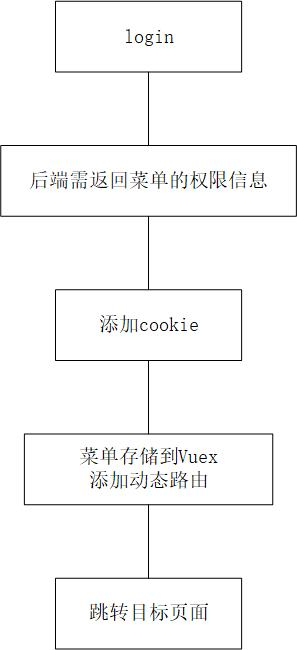
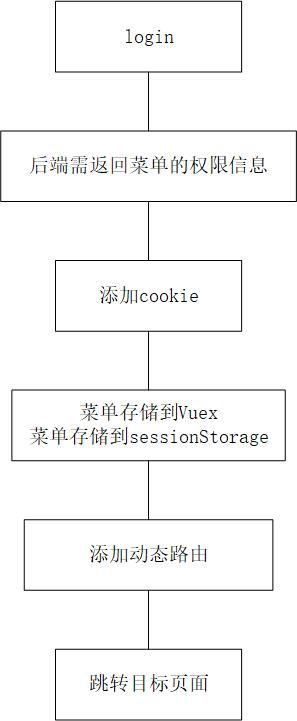
优化vuex与动态路由解决方案

diff --git a/src/router/index.js b/src/router/index.js
@@ -50,25 +50,14 @@ router.beforeEach((to, from, next)=> {
     // 非登录页，校验登录状态
     const username = Cookies.get('username')
     if (username) {
-      // 已登录，校验菜单
-      if (store.getters['menuModule/getMenuData'].length > 0) {
+      // 已登录，校验当前路由个数，初始路由个数为4
+      if (router.getRoutes().length > 4) {
         // 已有菜单路由，放行
         next()
       } else {
         new Promise((resolve) => {
-          let menuData = sessionStorage.getItem('menuData')
-
-          // 判断sessionStorage是否存在
-          if (menuData) {
-            // 存在，直接使用
-            sessionStorage.removeItem('menuData') // 清除sessionStorage
-            menuData = JSON.parse(menuData)
-            store.commit('menuModule/setMenuData', menuData)
-            resolve(menuData)
-          } else {
-            // 不存在，调用接口获取
-            resolve(store.dispatch('menuModule/getMenuData'))
-          }
+          let menuData = store.getters['menuModule/getMenuData']
+          resolve(menuData.length > 0 ? menuData : store.dispatch('menuModule/getMenuData'))
         }).then(menuData => {
           // 初始化动态路由
           initRoutes(menuData)

diff --git a/src/store/modules/menu.js b/src/store/modules/menu.js
@@ -7,7 +7,7 @@ import { getMenuData } from '@/api/menu';
 export default {
   namespaced: true,
   state: {
-    menuData: Object.freeze([]),
+    menuData: Object.freeze(sessionStorage.getItem('menuData') ? JSON.parse(sessionStorage.getItem('menuData')) : []),
     activeNav: 'home',
   },
   getters: {
@@ -20,6 +20,7 @@ export default {
   },
   mutations: {
     setMenuData(state, payload) {
+      sessionStorage.setItem('menuData', JSON.stringify(payload))
       state.menuData = payload
     },
     setActiveNav(state, payload) {

diff --git a/src/App.vue b/src/App.vue
@@ -5,18 +5,6 @@
 <script>
 export default {
   name: 'App',
-  created() {
-    window.addEventListener('beforeunload', ()=> {
-      // 判断当前是否是登录页
-      if (this.$route.name !== 'login') {
-        // 非登录页，vuex数据暂存
-        const menuData = this.$store.getters['menuModule/getMenuData']
-        if (menuData.length > 0) {
-          sessionStorage.setItem('menuData', JSON.stringify(menuData))
-        }
-      }
-    })
-  },
 }
 </script>
 

diff --git a/src/layout/header/User.vue b/src/layout/header/User.vue
@@ -48,11 +48,14 @@ export default {
      * 退出登录
      */
     logout() {
-      // 清除cookie
-      Cookies.remove('username')
+      Cookies.remove('username') // 清除cookie
+      sessionStorage.clear() // 清除所有sessionStorage
       // 跳转登录页
       this.$router.replace({
         name: 'login'
+      })
+      setTimeout(function() {
+        window.location.reload()
       })
     }
   }

diff --git a/README.md b/README.md
@@ -1,8 +1,5 @@
-### 备份vuex
-![](./readme-img/备份vuex.jpg)
-
-### 初始化/还原 vuex与动态路由
-![](./readme-img/还原vuex.jpg)
+### 初始化/还原 动态路由
+![](./readme-img/还原动态路由.jpg)
 
 ### 登录
 ![](./readme-img/登录.jpg)
@@ -11,16 +8,29 @@
 ![](./readme-img/退出登录.jpg)
 
 ### 动态路由
-1. 解析menuData时，最终输出只有两级，第一级为nav，第二级为子菜单扁平化，并将原始menuData保存至vuex
+1. 解析menuData时，最终输出只有两级，第一级为nav，第二级为子菜单扁平化
 2. 在路由守卫beforeEach中，用router.addRoute挂载在根路由"/"下
-3. 动态路由后next时，需使用replace: true避免白屏
+3. 动态路由后next时，需使用replace避免白屏
+```javascript
+next({...to, replace: true})
+```
 
-### 刷新后vuex与动态路由消失
-+ 页面生命周期beforeunload中，把vuex数据暂存至sessionStorage
-+ 路由守卫中，每次校验Vuex是否存在
+### 刷新后vuex消失
+1. 需要持久态的vuex，初始化时直接从sessionStorage取
+2. 每次mutation赋值时，同时向sessionStorage存一份即可
+```javascript
+state: {
+  status: sessionStorage.getItem('status') || 0
+}
+```
+
+### 刷新后动态路由消失
+1. 路由守卫中，通过校验router.getRoutes()个数，判断动态路由是否存在
+2. 如果动态路由消失，从vuex取数据重新添加
 
 ### 退出登录注意项
-除清除cookie外，还要重置Vuex与动态路由，避免用户权限出错
+1. 除清除cookie、sessionStorage外，还要重置Vuex与动态路由，避免用户权限出错，
+2. Vuex与动态路由的清除，可通过location.reload实现
 
 ### 路由变化菜单高亮联动问题
 用vuex
